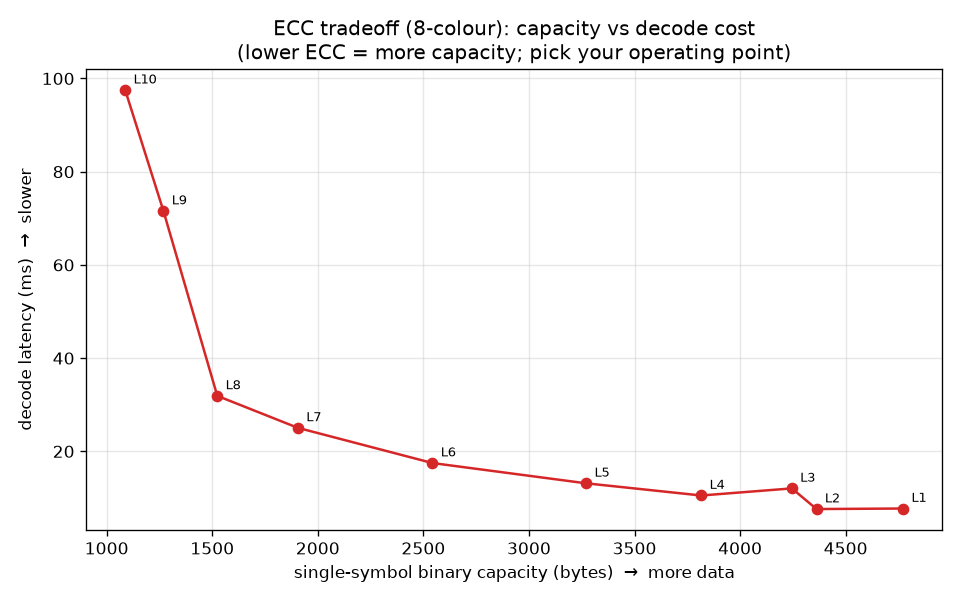
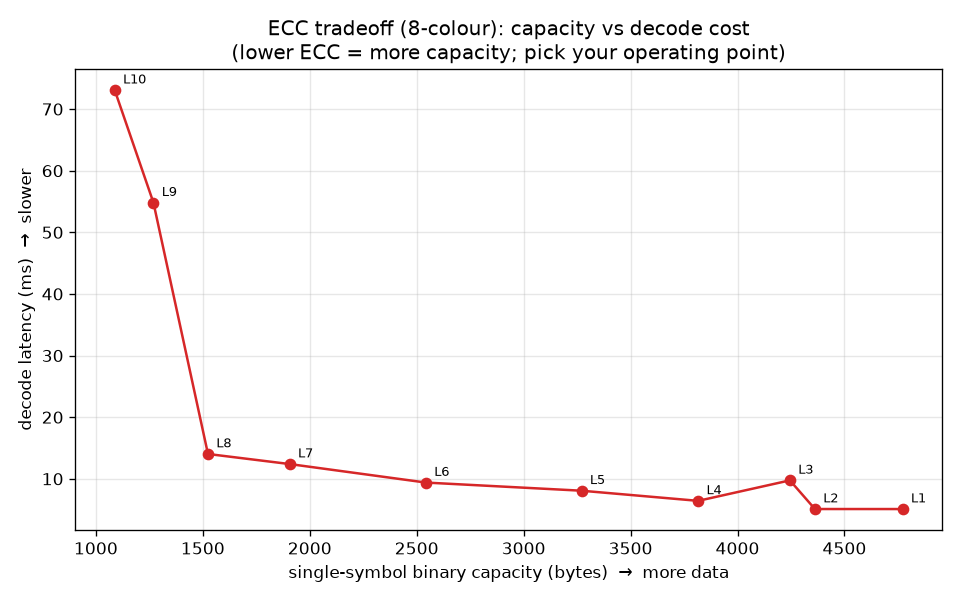
bench(jabcode): refresh verification budget — real crypto + current decoder
Regenerate sweep.jsonl on the current LDPC-optimized decoder (8c/1024B decode
42.7 -> 29.2 ms, 256B 12.1 -> 9.8 ms) and refresh the decode-latency charts.

Replace the verification_budget waterfall's scaffolded crypto estimates with the
real measured numbers from the JABCodeCOA-crypto phase-4 e2e benchmark:
  PKI verify   3.5 -> 0.09 ms   (real X.509 chain validate)
  CP-ABE       42.0 -> 26.4 ms  (real Rabe KEM decap)
  JWT validate 0.8 -> 0.04 ms   (real RS256 verify)
Total end-to-end now ~36 ms (was a ~58 ms crypto-heavy scaffold), well under the
100 ms target; CP-ABE decap dominates, decode second, PKI/JWT are noise.

Also fix the sweep reproduce command: the encoder prints "Message does not fit"
notices to stdout during the capacity sweep, so filter to JSON lines.

diff --git a/benchmarks/gen_charts.py b/benchmarks/gen_charts.py
@@ -194,14 +194,14 @@ for i in range(S.shape[0]):
 fig.colorbar(im, label="decode survival (1 trial)")
 save(fig, "transcode_survival_heatmap.png"); made.append("transcode_survival_heatmap.png")
 
-# ---- 9. Verification-budget waterfall (decode measured; crypto = scaffold) ----
+# ---- 9. Verification-budget waterfall (all stages measured: decode on current codec; crypto from phase-4) ----
 dec8 = next((r["decode_ms"] for r in (sub("ecc")) if r["colors"] == 8 and r["ecc"] == 3), None)
 if dec8 is None:
     dec8 = next((r["decode_ms"] for r in lat if r["colors"] == 8 and r["bytes"] == 256), 2.6)
-stages = [("JABCode decode\n(measured)", dec8, C_DEC),
-          ("PKI verify\n(X.509, scaffold)", 3.5, C_BIN),
-          ("CP-ABE decrypt\n(scaffold)", 42.0, C_ACC),
-          ("JWT validate\n(scaffold)", 0.8, C_BIN)]
+stages = [("JABCode decode\n(measured, current codec)", dec8, C_DEC),
+          ("PKI chain-validate\n(measured)", 0.09, C_BIN),
+          ("CP-ABE decap\n(measured)", 26.4, C_ACC),
+          ("JWT verify\n(measured)", 0.04, C_BIN)]
 fig, ax = plt.subplots(figsize=(8.5, 5))
 cum = 0
 for label, val, col in stages:
@@ -214,7 +214,7 @@ ax.text(len(stages)-0.5, 102, "100 ms target (Opp 30)", ha="right", fontsize=9, 
 ax.bar("TOTAL", cum, color="#444", edgecolor="white")
 ax.text("TOTAL", cum + 1.5, f"{cum:.1f} ms", ha="center", fontsize=9)
 ax.set_ylabel("latency (ms)")
-ax.set_title("End-to-end verification budget — decode measured, crypto scaffolded")
+ax.set_title("End-to-end verification budget — all stages measured (crypto: real PKI/JWT/ABE, phase-4)")
 save(fig, "verification_budget.png"); made.append("verification_budget.png")
 
 # ============================================================================

diff --git a/benchmarks/README.md b/benchmarks/README.md
@@ -20,7 +20,7 @@ to the pre-optimization baseline (the opts were behaviour-preserving), as expect
 | representative crypto timings | verification budget | **scaffold** — decode is measured, PKI/ABE/JWT are placeholders pending the `jab-auth` module benchmarks |
 
 Reproduce the codec suite: `make -C src/jabcode sweep transcode`, run
-`build/bench_sweep fixtures/wikipedia_qr.txt > data/sweep.jsonl` and
+`build/bench_sweep fixtures/wikipedia_qr.txt | grep '^{' > data/sweep.jsonl` (the `grep` drops the encoder's "Message does not fit" notices, which it prints to stdout during the capacity sweep) and
 `python benchmarks/transcode_survival.py`, then `python benchmarks/gen_charts.py`.
 The robustness panel additionally needs the R0 rig run before `gen_charts.py`
 (see §7). Fixtures: `fixtures/wikipedia_qr.txt` (the Wikipedia *QR code* article,
